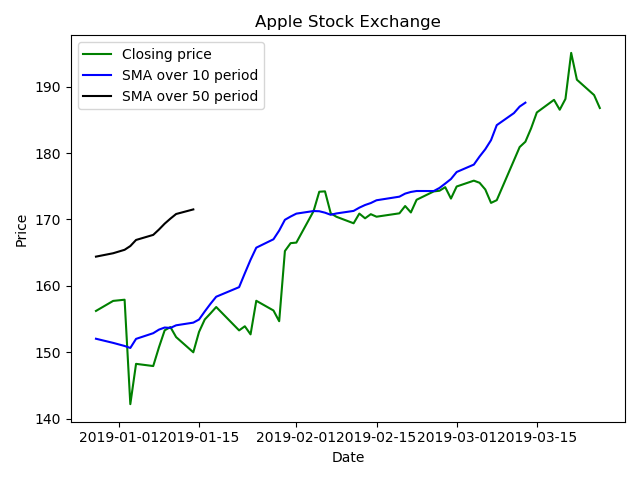
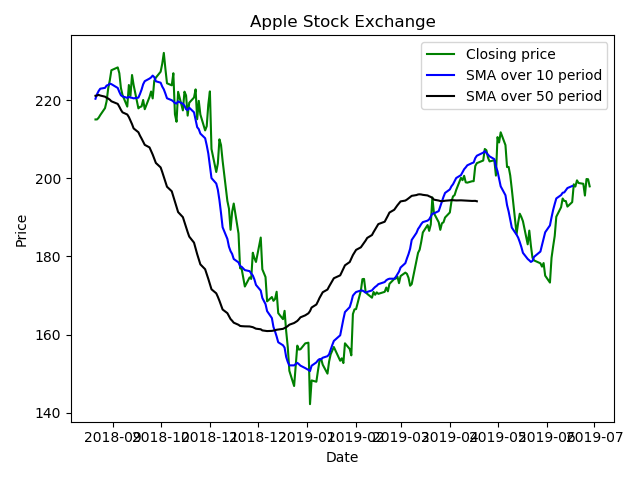
datset updated

diff --git a/stock_pred.py b/stock_pred.py
@@ -19,7 +19,7 @@ dates = np.reshape(dates,(len(dates),1))
 # Modelling
 lin  = LinearRegression()
 svr_rbf  = SVR(kernel='rbf', C=1e3, gamma=0.1)
-
+print(dates)
 X_train, X_test, y_train, y_test =  train_test_split(dates, prices, test_size=0.3, random_state=42)
 
 lin.fit(X_train, y_train)
@@ -44,9 +44,11 @@ pred_lin = lin.predict(X_test)
 lin.fit(dates, prices)
 svr_rbf.fit(dates, prices)
 
+fig, ax = plt.subplots()
 plt.scatter(dates, prices, color='black', label='Data')
 plt.plot(dates, lin.predict(dates), color='green', label='Linear Model')
 plt.plot(dates, svr_rbf.predict(dates), color='red', label='RBF Model')
+# ax.xaxis_date()
 
 
 plt.xlabel('Date')
@@ -55,8 +57,9 @@ plt.title('Apple Stock Exchange')
 plt.legend()
 plt.show()
 
-
-ans_brf = svr_rbf.predict(27)
+new_date = '27-03-2019'
+new_date_val = int(new_date.replace('-',''))
+ans_brf = svr_rbf.predict(new_date_val)
 print("RBF Prediction: "+str(round(ans_brf[0],2)))
-ans_lin = lin.predict(27)
+ans_lin = lin.predict(new_date_val)
 print("Linear Prediction: "+str(round(ans_lin[0],2)))

diff --git a/exploratory_analysis.py b/exploratory_analysis.py
@@ -17,7 +17,7 @@ def settings():
     plt.legend()
     plt.tight_layout()
 
-df = pd.read_csv('HistoricalQuotes-3Months.csv')
+df = pd.read_csv('HistoricalQuotes.csv')
 df['date'] = pd.to_datetime(df['date'].apply(convert_dates))
 
 df['sma10'] = df['close'].rolling(10).mean()
@@ -28,7 +28,7 @@ ohlc['date'] = ohlc['date'].apply(date2num)
 
 fig, ax = plt.subplots()
 
-candlestick_ohlc(ax, ohlc.values, width=0.6, colorup='g', colordown='r')
+candlestick_ohlc(ax, ohlc.values, width=0.9, colorup='g', colordown='r')
 
 ax.xaxis_date()
 settings()
